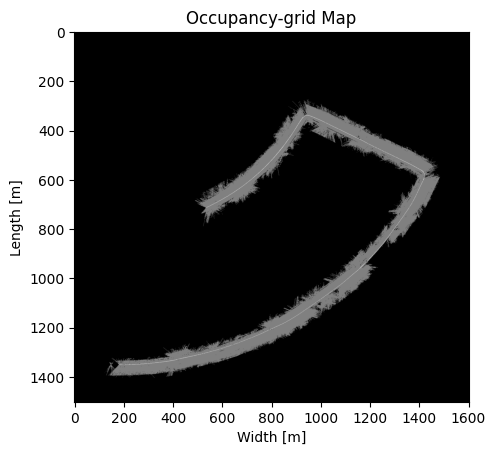
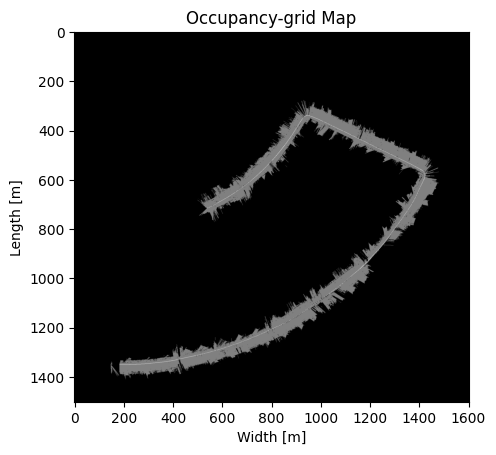
Debugged SLAM

diff --git a/mapping.py b/mapping.py
@@ -6,6 +6,7 @@ import matplotlib.pyplot as plt; plt.ion()
 matplotlib.use('Qt5Agg')
 import numpy as np
 import pr2_utils
+import warnings
 
 def display_Occupancy_Grid_Map(MAP, vehicle_trajectory, iteration):
     """
@@ -106,7 +107,7 @@ def occupancy_grid_mapping(MAP, lidar_angles, lidar_ranges, RotMat_lidar2vehicle
 
     # Determine the points that are at the end of the laser line
     lidar_end_pt_x = lidar_ranges * np.cos(lidar_angles)
-    lidar_end_pt_y = lidar_ranges * np.sin(lidar_ranges)
+    lidar_end_pt_y = lidar_ranges * np.sin(lidar_angles)
 
     # Convert to 4D-Cartesian homogeneous coordinates.
     positions_vehicle = np.vstack((lidar_end_pt_x, 
@@ -160,7 +161,8 @@ def occupancy_grid_mapping(MAP, lidar_angles, lidar_ranges, RotMat_lidar2vehicle
 
     return MAP
 
-
+# Suppress warnings.
+warnings.filterwarnings('ignore')
 
 
 

diff --git a/prediction_update.py b/prediction_update.py
@@ -74,7 +74,7 @@ def update(particle_Poses, particle_Weights, num_Particles, MAP, lidar_angles, l
 
     # Determine the points that are at the end of the laser line
     lidar_end_pt_x = lidar_ranges * np.cos(lidar_angles)
-    lidar_end_pt_y = lidar_ranges * np.sin(lidar_ranges)
+    lidar_end_pt_y = lidar_ranges * np.sin(lidar_angles)
 
     # LIDAR homogeneous positions in vehicle frame
     lidar_homo_coords = np.vstack((lidar_end_pt_x, 

diff --git a/texture_mapping.py b/texture_mapping.py
@@ -138,7 +138,7 @@ def texture_map(RGB_map, MAP, RotMat_cam2vehicle, TransVec_cam2vehicle, particle
         plt.xlabel("Width [m]")
         plt.ylabel("Length [m]")
         plt.show()
-        plt.savefig('OGmapRGBfree' + str(iteration) + '.png', bbox_inches='tight')
+        plt.savefig('OGmapRGB' + str(iteration) + '.png', bbox_inches='tight')
         plt.pause(0.001) # Prevent crashing
 
     return RGB_map
